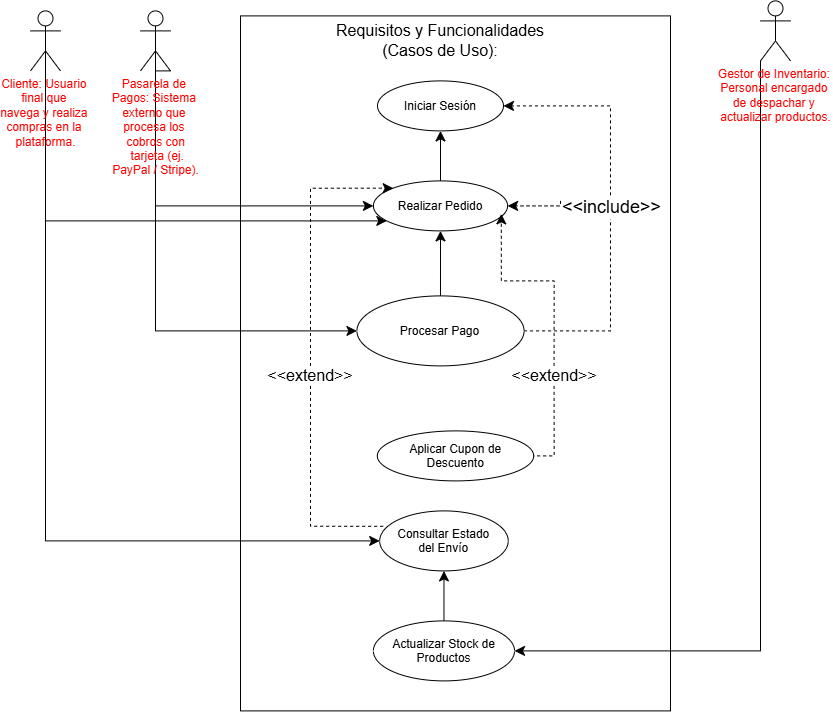
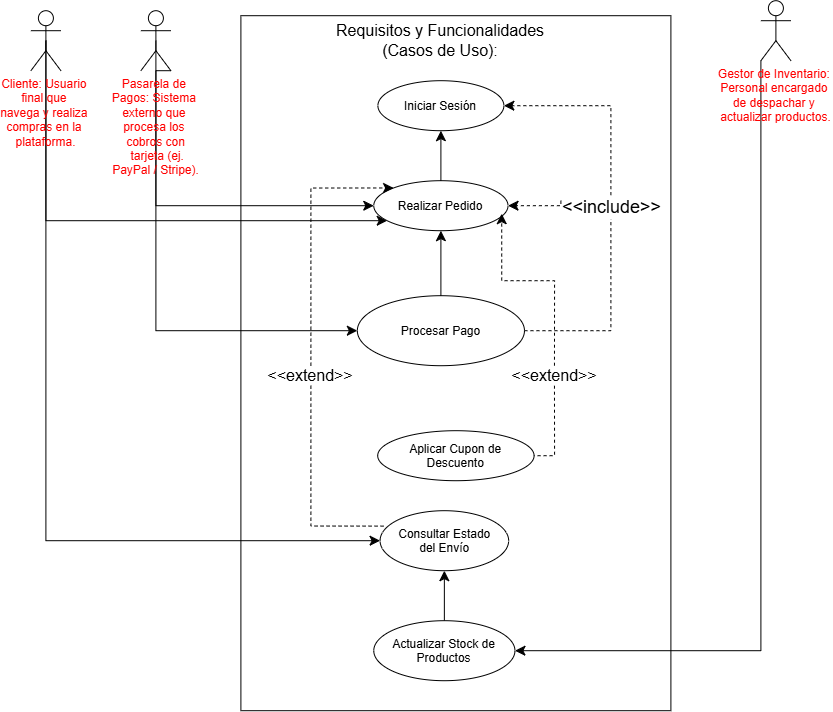
Corrijo ruta y agrego casos_de_uso.png

diff --git a/docs/casos-de-uso.md b/docs/casos-de-uso.md
@@ -4,7 +4,7 @@
 El presente doocumento define los requisitos funcionales del **Sistema de Gestión Hospitalaria**. Se detalla la interacción entre los actores (Paciente, Médico, Administrador) y las funcionalidades del sistema.
 
 ## 2. Diagrama UML de Casos  de Uso
-![Diagrama de Casos de Uso Hospitalario](../asstes/casos_de_uso.png)
+![Diagrama de Casos de Uso Hospitalario](../assets/casos_de_uso.png)
 
 ## 3. Especificación de Relaciones 
 * **Relaciones <<inclede>>:** *Reservar Cita* y *Generar Factura* requieren obligatoriamente la autenticación previa del usuario en el sistema.
